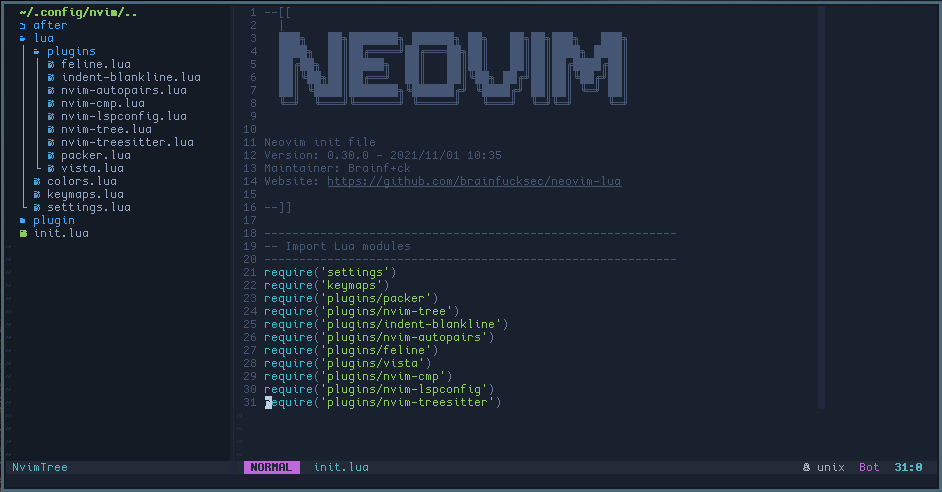
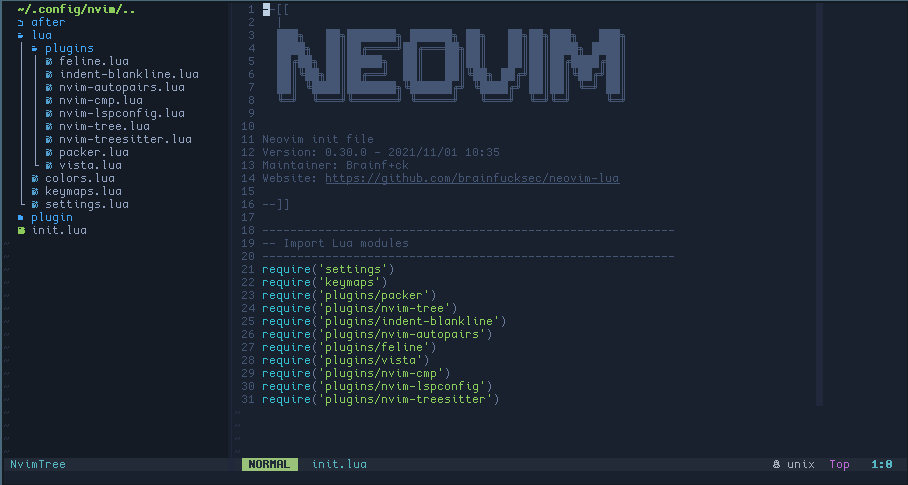
Update README, .gitignore

Changed region(s): [[0.0, 0.0, 1.0, 1.0], [0.2467, 0.4639, 0.5551, 0.8351], [0.2467, 0.2474, 0.6784, 0.433]]

diff --git a/README.md b/README.md
@@ -46,6 +46,7 @@ This setup require [neovim >= v0.5.1](https://github.com/neovim/neovim/releases/
 │   │   ├── nvim-treesitter.lua
 │   │   ├── packer.lua
 │   │   └── vista.lua
+│   ├── colors.lua
 │   ├── keymaps.lua
 │   └── settings.lua
 ├── plugin
@@ -62,6 +63,8 @@ This setup require [neovim >= v0.5.1](https://github.com/neovim/neovim/releases/
 * [settings.lua](nvim/lua/settings.lua): General Neovim settings and configuration
 
 * [keymaps.lua](nvim/lua/keymaps.lua): Keymaps configuration file, vim/neovim and plugins keymaps.
+
+* [colors.lua](nvim/lua/color.lua): Define colors for neovim and plugins.
 
 * [plugins/packer.lua](nvim/lua/plugins/packer.lua): Plugin manager settings
 
